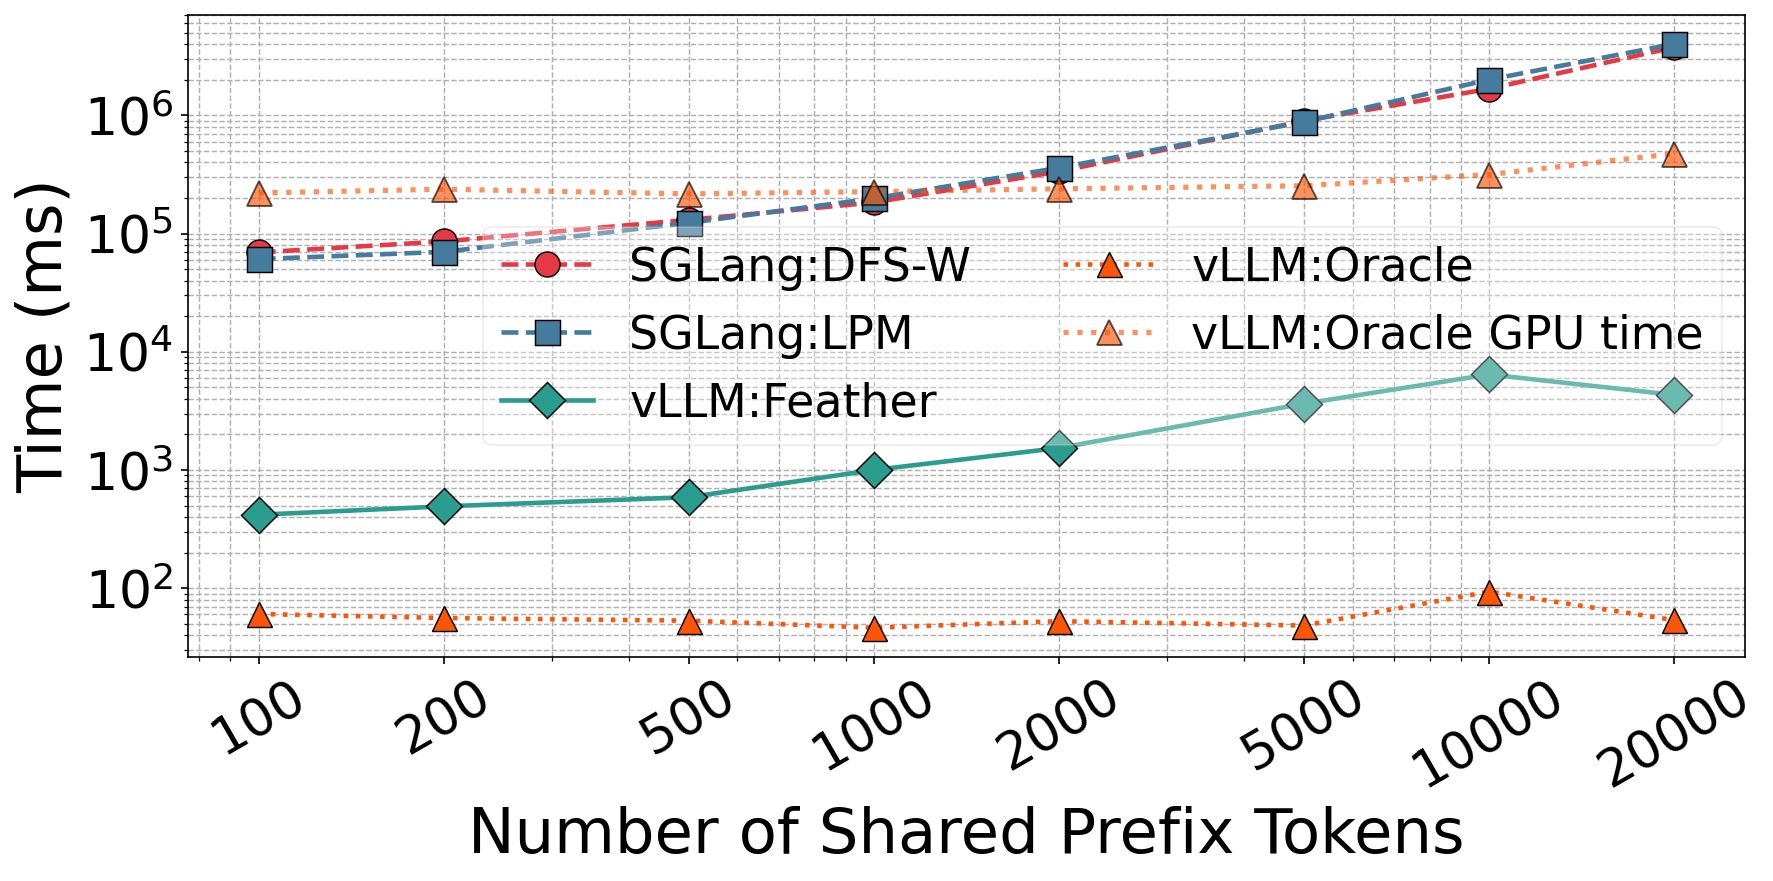
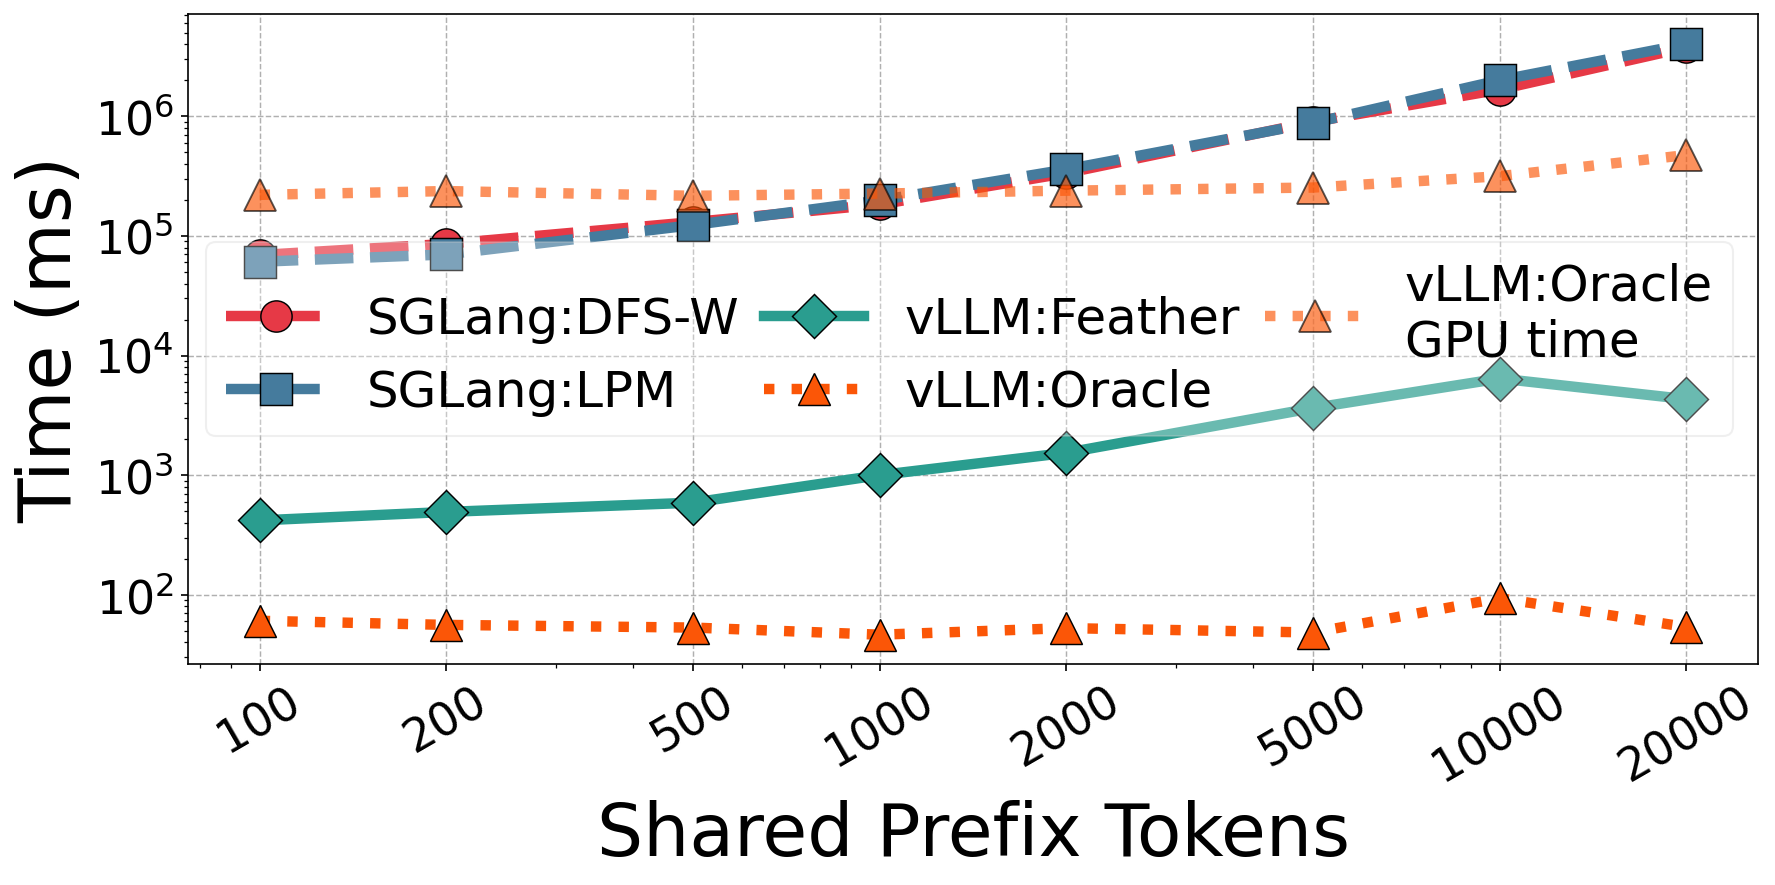
cpu overhead

Changed region(s): [[0.0, 0.0, 0.9927, 0.6129], [0.031, 0.6436, 0.9927, 0.9807]]

diff --git a/code/vllm/sys_prompt_tokens_logs_microbenchmark/plot.py b/code/vllm/sys_prompt_tokens_logs_microbenchmark/plot.py
@@ -156,8 +156,8 @@ for i, label in enumerate(labels):
         xs, ys,
         marker=marker,
         linestyle=linestyle,
-        linewidth=2.2,
-        markersize=12,
+        linewidth=5,
+        markersize=15,
         markeredgecolor="black",
         markeredgewidth=0.7,
         color=color,
@@ -176,32 +176,32 @@ for i, label in enumerate(labels):
             xs_e, ys_e,
             marker=marker,
             linestyle=":",          # dotted to distinguish
-            linewidth=2.5,
-            markersize=12,
+            linewidth=5,
+            markersize=15,
             markeredgecolor="black",
             markeredgewidth=0.9,
             color=color,
             alpha=0.65,
-            label=f"{label} GPU time",
+            label=f"{label}\nGPU time",
         )
 
 ax.set_xscale("log")
 ax.set_yscale("log")  # <-- LOG SCALE ON Y-AXIS
-ax.set_xlabel("Number of Shared Prefix Tokens", fontsize=30)
-ax.set_ylabel("Time (ms)", fontsize=30)
+ax.set_xlabel("Shared Prefix Tokens", fontsize=35)
+ax.set_ylabel("Time (ms)", fontsize=35)
 
 ax.set_xticks(all_sys_toks)
 ax.set_xticklabels([str(t) for t in all_sys_toks], rotation=30)
 ax.get_xaxis().set_major_formatter(ticker.ScalarFormatter())
-ax.tick_params(axis="both", labelsize=25)
+ax.tick_params(axis="both", labelsize=22)
 # Use LogFormatter for y-axis ticks since it's now log scale
 ax.yaxis.set_major_formatter(ticker.LogFormatterSciNotation(base=10, labelOnlyBase=False))
 
-ax.legend(fontsize=22, framealpha=0.3,ncol=2)
-ax.grid(True, which="both", linewidth=0.7, linestyle="--")  # grid on both major/minor ticks
+# reduce the gap between legend columns
+ax.legend(fontsize=24, framealpha=0.3,ncol=3, columnspacing=0.5)
+ax.grid(True, which="major", linewidth=0.7, linestyle="--")  # grid on both major/minor ticks
 plt.tight_layout()
 outpath = os.path.join(OUT, "profile_sum_vs_sys_prompt_tokens.png")
 fig.savefig(outpath, dpi=150, bbox_inches="tight")
 plt.close(fig)
 print(f"Saved: {outpath}")
-print(f"\nDone! Plot written to: {OUT}")
